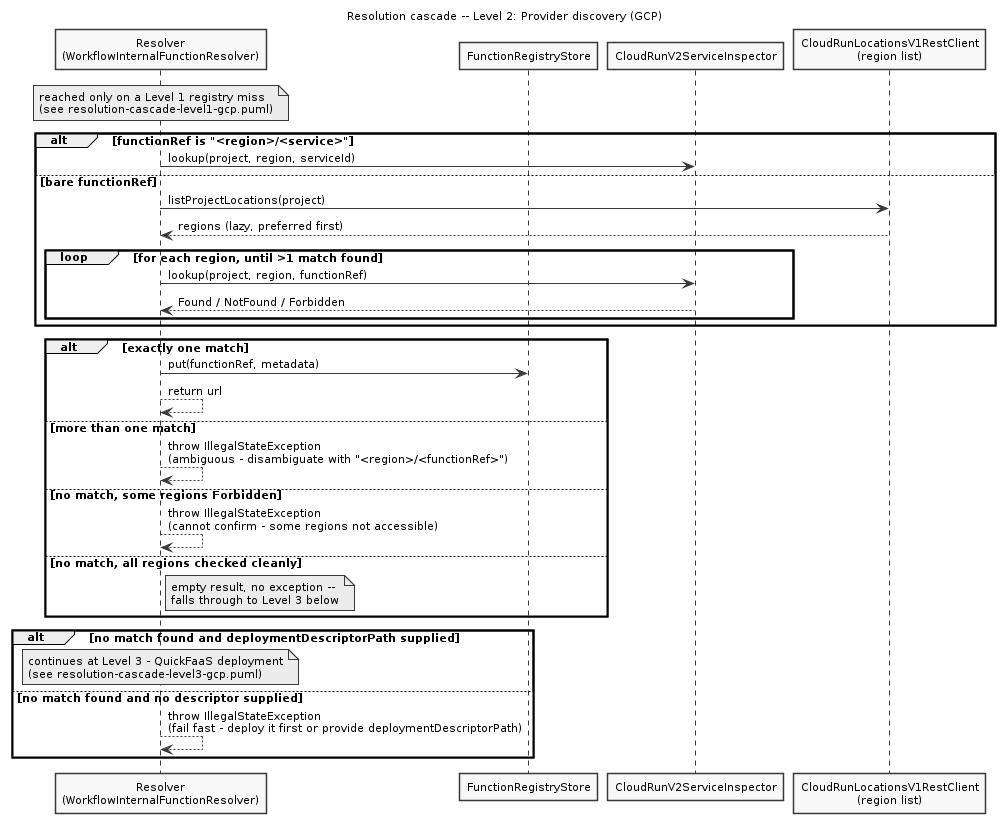
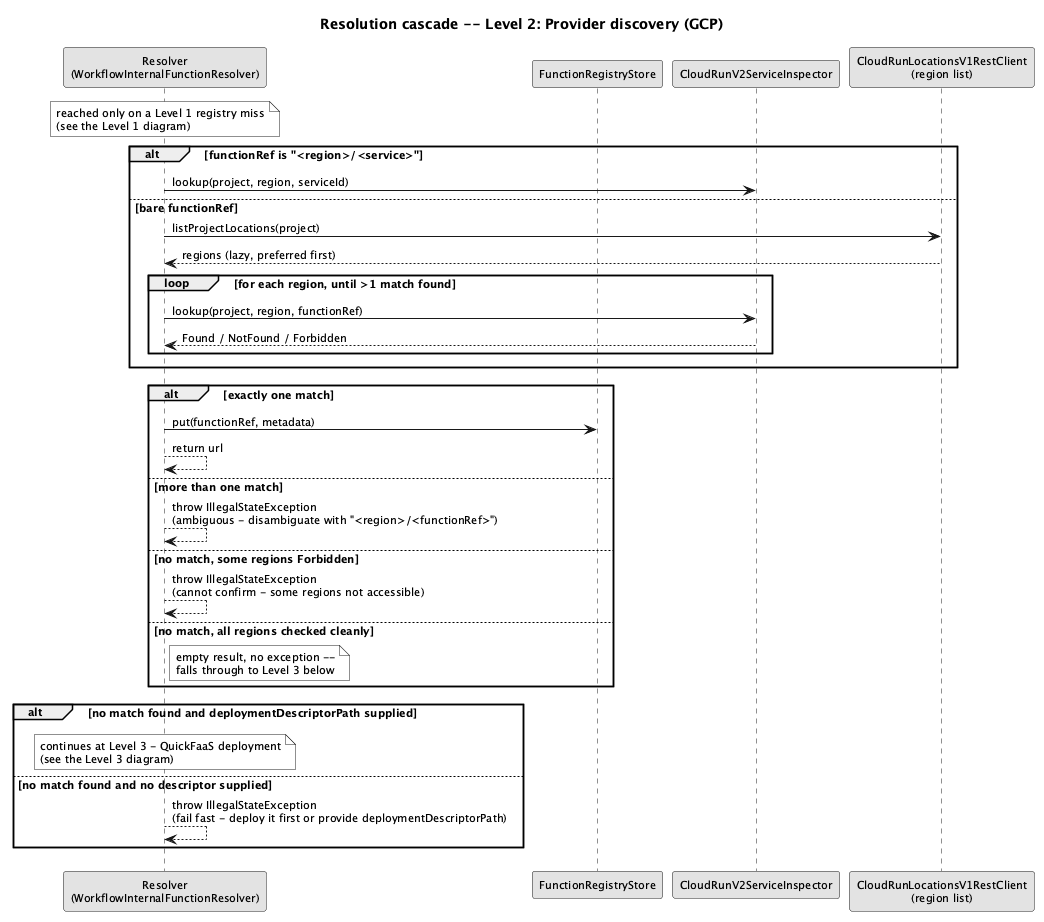
Align the thesis diagrams with the code and the text
- Show internal calls' host/path as "" instead of "e" (call-step-model,
  aws-deploy-sequence), as CallContextBuilder sets them.
- Replace .puml file names in figure notes with references a reader of
  the PDF can follow.
- Name GCP functions Cloud Run functions in architecture-after, note the
  QuickFaaS GCP v2 change, and make the legend's colour markers legible.
- Point the aws-deploy-sequence text at the section that defines the
  cascade levels.
- Regenerate the affected PNGs and log the changes in CHANGELOG.md.

Changed region(s): [[0.0, 0.0304, 1.0, 1.0], [0.3082, 0.0, 1.0, 0.1215]]

diff --git a/dissertation/Chapters/chapter5.tex b/dissertation/Chapters/chapter5.tex
@@ -240,7 +240,7 @@ and idempotency, the two properties that motivated the registry in the first pla
 (\S\ref{sec:resolution-cascade}), are unaffected by whether the hit is trusted or verified.
 
 \section{AWS Lambda Support in QuickFaaS}
-Figure~\ref{fig:aws-deploy-sequence} traces the end-to-end deployment on AWS, from the registry bootstrap to \texttt{Create\allowbreak State\allowbreak Machine}, and expands the longest path, where an internal function exists in neither the registry nor AWS. The \texttt{alt} fragment (UML notation for alternative branches) has one branch for each of the three levels of the resolution cascade described in Section~\ref{subsec:endpoint-resolution}, and a fourth for the calls that fail fast. Once Level~3 is reached, \texttt{AwsLambdaDeployer} performs the AWS-specific work described step by step in Section~\ref{subsec:omniflow-aws-deployer}. The ARN it returns is stored in the registry and, once all calls are resolved, the workflow is rendered with a \texttt{lambda:invoke} task resource and submitted via \texttt{Create\allowbreak State\allowbreak Machine}. The rationale for invoking QuickFaaS as a subprocess, rather than integrating the two tools as separate communicating services, is discussed in Section~\ref{sec:design-rationale}.
+Figure~\ref{fig:aws-deploy-sequence} traces the end-to-end deployment on AWS, from the registry bootstrap to \texttt{Create\allowbreak State\allowbreak Machine}, and expands the longest path, where an internal function exists in neither the registry nor AWS. The \texttt{alt} fragment (UML notation for alternative branches) has one branch for each of the three levels of the resolution cascade described in Section~\ref{sec:resolution-cascade}, and a fourth for the calls that fail fast. Once Level~3 is reached, \texttt{AwsLambdaDeployer} performs the AWS-specific work described step by step in Section~\ref{subsec:omniflow-aws-deployer}. The ARN it returns is stored in the registry and, once all calls are resolved, the workflow is rendered with a \texttt{lambda:invoke} task resource and submitted via \texttt{Create\allowbreak State\allowbreak Machine}. The rationale for invoking QuickFaaS as a subprocess, rather than integrating the two tools as separate communicating services, is discussed in Section~\ref{sec:design-rationale}.
 
 \begin{figure}[htbp]
   \centering

diff --git a/dissertation/CHANGELOG.md b/dissertation/CHANGELOG.md
@@ -5,3 +5,20 @@ Só alterações ainda não enviadas (push). Base: `1810f90` (último commit em
 
 (`changelog.txt`, nesta pasta, é o histórico do template `iselthesis` e não tem nada a ver com
 este ficheiro.)
+
+## 2026-09-27
+
+### Diagramas: correções de coerência com o código e o texto
+
+- Cap. 3 (`chapter3.tex`), Fig. `call-step-model`: a nota passa a dizer `host = path = ""` (string
+  vazia, como no `CallContextBuilder`) em vez de `host = path = e`.
+- Cap. 3, Fig. `architecture-after`: a nuvem GCP passa a "Cloud Run functions (GCP)" (2.ª geração);
+  o QuickFaaS passa a "(+ AwsProvider, GCP v2 API)"; a legenda mostra «new» e «extended» nas
+  amostras de cor, que antes ficavam quase invisíveis.
+- Cap. 4 (`chapter5.tex`), Fig. `aws-deploy-sequence`: `path = ""` em vez de `path = e`; a nota do
+  Nível 1 remete para o diagrama do Apêndice A em vez de um ficheiro `.puml`.
+- Cap. 4, texto da Fig. `aws-deploy-sequence`: a referência aos três níveis da cascata aponta para
+  `sec:resolution-cascade` (Cap. 3) em vez de `subsec:endpoint-resolution`.
+- Apêndice A (`appendix-cascade.tex`), Figs. A.1–A.3: as notas que citavam ficheiros `.puml`
+  passam a remeter para "the Level N diagram" ou para o diagrama de sequência AWS do Cap. 4.
+- PNG regenerados com PlantUML 1.2026.8 e copiados para `images/`.
